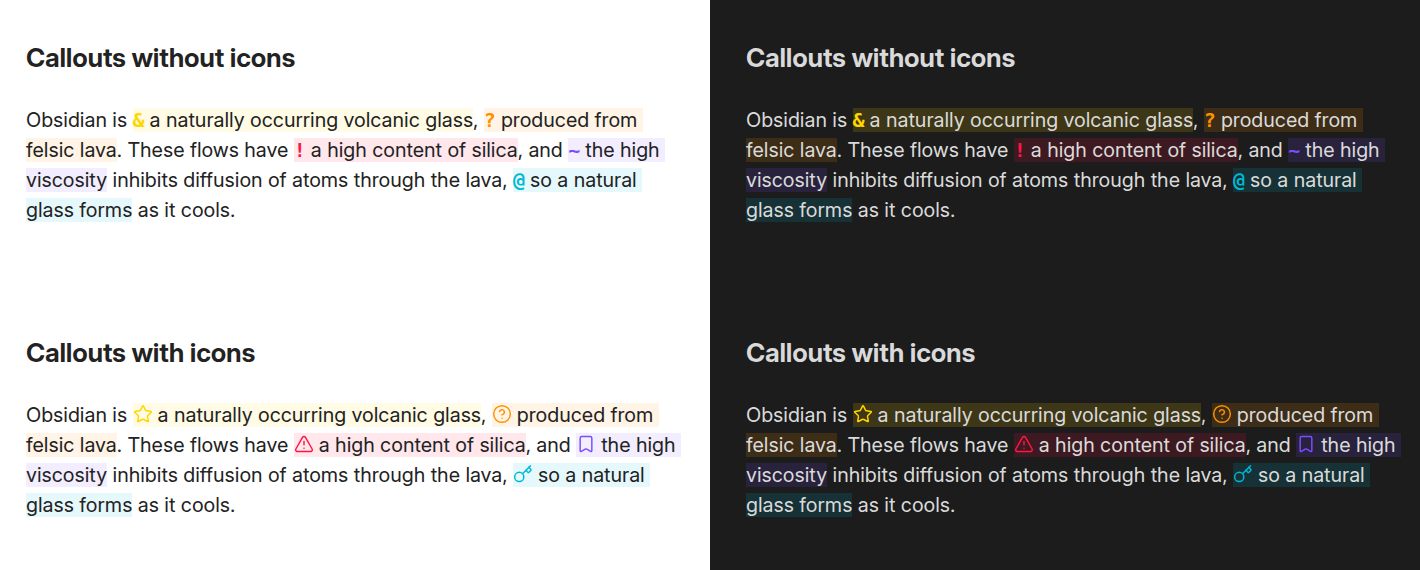
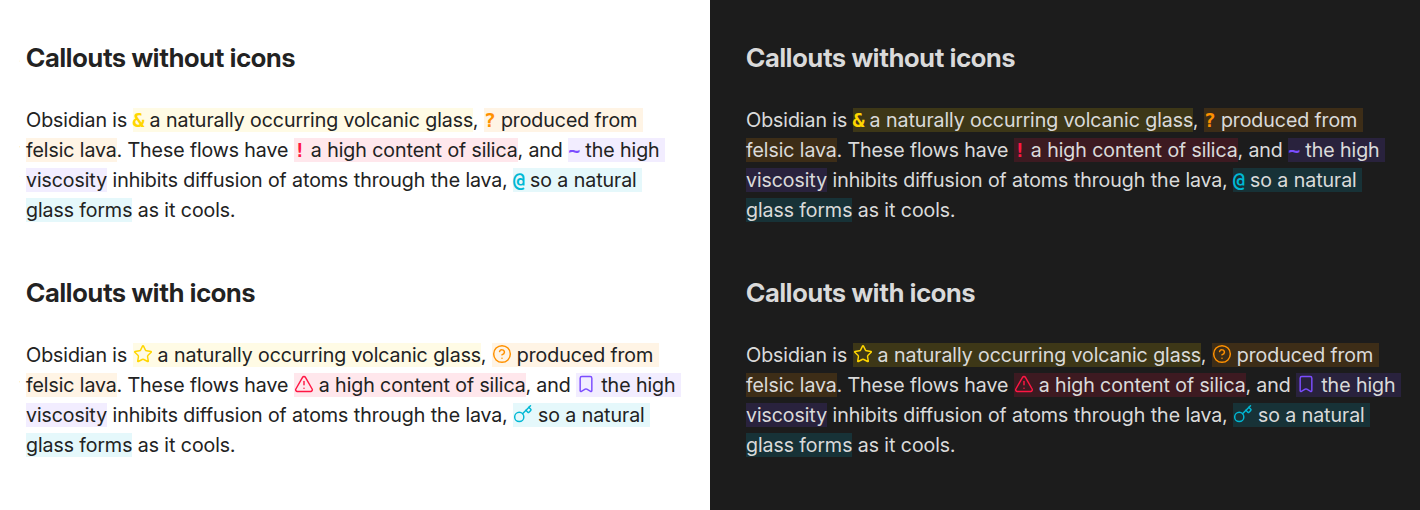
Close up the gap between the two rows of highlights.png
Each capture carries its own padding, which doubled where they met on
top of the gutter. Drop the gutter and trim the facing padding.

diff --git a/test/capture/readme.capture.ts b/test/capture/readme.capture.ts
@@ -313,13 +313,17 @@ async function editorComposite(
  *
  * For a picture of the same note under two settings -- the highlights with
  * characters and then with icons -- so the two renderings sit together in one
- * image rather than as two that differ only in their markers. The gap takes
- * the light and dark backgrounds of the halves above it, so the seam between
- * the two schemes runs straight through.
+ * image rather than as two that differ only in their markers. Each capture
+ * carries its own breathing room top and bottom, which would double up where
+ * they meet, so `trim` shaves that many pixels off the top of the lower one.
  */
-async function stacked(top: Buffer, bottom: Buffer): Promise<Buffer> {
+async function stacked(
+  top: Buffer,
+  bottom: Buffer,
+  trim = 0
+): Promise<Buffer> {
   const encoded = await browser.executeObsidian(
-    async (_obsidian, topData: string, bottomData: string, gap: number) => {
+    async (_obsidian, topData: string, bottomData: string, trim: number) => {
       const load = (data: string) =>
         new Promise<HTMLImageElement>((resolve, reject) => {
           const img = new Image();
@@ -332,38 +336,27 @@ async function stacked(top: Buffer, bottom: Buffer): Promise<Buffer> {
 
       const canvas = document.createElement('canvas');
       canvas.width = Math.max(a.width, b.width);
-      canvas.height = a.height + gap + b.height;
+      canvas.height = a.height + b.height - trim;
 
       const ctx = canvas.getContext('2d');
       ctx.drawImage(a, 0, 0);
-      ctx.drawImage(b, 0, a.height + gap);
-
-      // Each composite is a light half and a dark half of equal width, so
-      // the gap is painted from the bottom edge of the top image: its left
-      // corner color across the left half, its right corner color across
-      // the rest.
-      const cornerColor = (img: HTMLImageElement, x: number, y: number) => {
-        const probe = document.createElement('canvas');
-        probe.width = 1;
-        probe.height = 1;
-        probe.getContext('2d').drawImage(img, x, y, 1, 1, 0, 0, 1, 1);
-        const [r, g, bl] = probe.getContext('2d').getImageData(0, 0, 1, 1).data;
-        return `rgb(${r}, ${g}, ${bl})`;
-      };
-
-      const mid = Math.floor(canvas.width / 2);
-
-      ctx.fillStyle = cornerColor(a, 0, a.height - 1);
-      ctx.fillRect(0, a.height, mid, gap);
-
-      ctx.fillStyle = cornerColor(a, a.width - 1, a.height - 1);
-      ctx.fillRect(mid, a.height, canvas.width - mid, gap);
+      ctx.drawImage(
+        b,
+        0,
+        trim,
+        b.width,
+        b.height - trim,
+        0,
+        a.height,
+        b.width,
+        b.height - trim
+      );
 
       return canvas.toDataURL('image/png').split(',')[1];
     },
     top.toString('base64'),
     bottom.toString('base64'),
-    GAP
+    trim
   );
 
   return Buffer.from(encoded, 'base64');
@@ -1385,7 +1378,10 @@ describe('README screenshots', function () {
 
     await fs.writeFile(
       path.join(OUT_DIR, 'highlights.png'),
-      await stacked(characters, icons)
+      // Both captures' facing padding, so the second heading follows the
+      // first paragraph about as closely as a heading follows a paragraph
+      // in a note.
+      await stacked(characters, icons, EDITOR_PADDING * 2)
     );
   });
 
